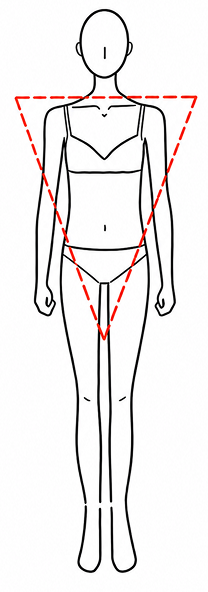
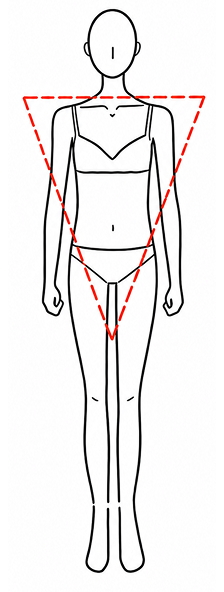
fix: 체형 선택 꾹 누름 설명 분리 및 마네킹 크기 통일

diff --git a/src/pages/onboarding/BodyTypePage.tsx b/src/pages/onboarding/BodyTypePage.tsx
@@ -1,4 +1,4 @@
-import { useEffect, useState } from 'react';
+import { useEffect, useRef, useState } from 'react';
 import { useNavigate } from 'react-router-dom';
 import Button from '@/components/ui/Button';
 import type { ServerBodyType } from '@/features/onboarding/api/bodyProfileApi';
@@ -10,6 +10,8 @@ import { getErrorMessage } from '@/lib/apiError';
 import useOnboardingStore from '@/store/onboardingStore';
 
 const INTRO_DURATION_MS = 2500;
+/** 이보다 오래 누르고 있으면 선택 대신 타입 설명을 보여준다 */
+const LONG_PRESS_MS = 450;
 
 const BodyTypePage = () => {
   const navigate = useNavigate();
@@ -18,11 +20,17 @@ const BodyTypePage = () => {
   const { mutate: saveBodyType, isPending, error } = useSaveBodyType();
   const [showIntro, setShowIntro] = useState(true);
   const [selected, setSelected] = useState<BodyTypeOption | null>(null);
-  const [showDescription, setShowDescription] = useState(false);
+  /** 꾹 누르고 있는 동안 설명을 보여줄 타입 (놓으면 null로 복귀) */
+  const [described, setDescribed] = useState<BodyTypeOption | null>(null);
+  const pressTimer = useRef<number | null>(null);
+  const longPressed = useRef(false);
 
   useEffect(() => {
     const timer = setTimeout(() => setShowIntro(false), INTRO_DURATION_MS);
-    return () => clearTimeout(timer);
+    return () => {
+      clearTimeout(timer);
+      if (pressTimer.current !== null) clearTimeout(pressTimer.current);
+    };
   }, []);
 
   const handleSkip = () => {
@@ -30,9 +38,24 @@ const BodyTypePage = () => {
     navigate('/home', { replace: true });
   };
 
-  const handleSelect = (option: BodyTypeOption) => {
-    setSelected(option);
-    setShowDescription(true);
+  // 꾹 누름: LONG_PRESS_MS 지나면 설명 표시. 짧은 탭: 놓을 때 선택.
+  const startPress = (option: BodyTypeOption) => {
+    longPressed.current = false;
+    pressTimer.current = window.setTimeout(() => {
+      longPressed.current = true;
+      setDescribed(option);
+    }, LONG_PRESS_MS);
+  };
+
+  /** 손을 떼거나 벗어났을 때. option이 있으면(버튼 위에서 뗌) 짧은 탭을 선택으로 처리 */
+  const endPress = (option?: BodyTypeOption) => {
+    if (pressTimer.current !== null) {
+      clearTimeout(pressTimer.current);
+      pressTimer.current = null;
+    }
+    setDescribed(null);
+    if (!longPressed.current && option) setSelected(option);
+    longPressed.current = false;
   };
 
   const handleConfirm = () => {
@@ -51,19 +74,31 @@ const BodyTypePage = () => {
       ) : (
         <div className="relative flex flex-1 flex-col px-6 pb-8 pt-10">
           <h2 className="text-center text-lg font-semibold">체형을 선택해주세요</h2>
+          <p className="mt-1 text-center text-xs text-neutral-400">
+            이미지를 꾹 누르면 자세한 정보를 알 수 있어요
+          </p>
 
-          {/* 타입 3택 */}
+          {/* 타입 3택 - 짧은 탭은 선택, 꾹 누르면 누르는 동안만 설명 표시 */}
           <div className="mt-8 grid grid-cols-3 gap-3">
             {BODY_TYPES.map((option) => (
               <button
                 key={option.type}
                 type="button"
-                onClick={() => handleSelect(option)}
-                className={`flex flex-col items-center gap-2 rounded-xl p-2 transition-colors ${
+                onPointerDown={() => startPress(option)}
+                onPointerUp={() => endPress(option)}
+                onPointerLeave={() => endPress()}
+                onPointerCancel={() => endPress()}
+                onContextMenu={(e) => e.preventDefault()}
+                className={`flex select-none flex-col items-center gap-2 rounded-xl p-2 transition-colors ${
                   selected?.type === option.type ? 'bg-violet-50' : ''
                 }`}
               >
-                <img src={option.imageSrc} alt={option.label} className="w-full object-contain" />
+                <img
+                  src={option.imageSrc}
+                  alt={option.label}
+                  draggable={false}
+                  className="w-full object-contain"
+                />
                 <span className="text-xs text-neutral-600">{option.label}</span>
               </button>
             ))}
@@ -82,19 +117,13 @@ const BodyTypePage = () => {
             />
           </div>
 
-          {/* 선택 타입 설명 오버레이 */}
-          {showDescription && selected && (
-            <div
-              className="absolute inset-0 z-10 flex items-center justify-center bg-white/60 px-6"
-              onClick={() => setShowDescription(false)}
-            >
-              <div
-                className="w-full rounded-2xl bg-neutral-50 px-6 py-8 text-center shadow-lg"
-                onClick={(e) => e.stopPropagation()}
-              >
-                <h3 className="text-base font-semibold">{selected.label}</h3>
+          {/* 타입 설명 오버레이 - 꾹 누르고 있는 동안만 표시 (이벤트는 버튼이 계속 받도록 통과) */}
+          {described && (
+            <div className="pointer-events-none absolute inset-0 z-10 flex items-center justify-center bg-white/60 px-6">
+              <div className="w-full rounded-2xl bg-neutral-50 px-6 py-8 text-center shadow-lg">
+                <h3 className="text-base font-semibold">{described.label}</h3>
                 <p className="mt-4 whitespace-pre-line text-sm leading-relaxed text-neutral-600">
-                  {selected.description}
+                  {described.description}
                 </p>
               </div>
             </div>
